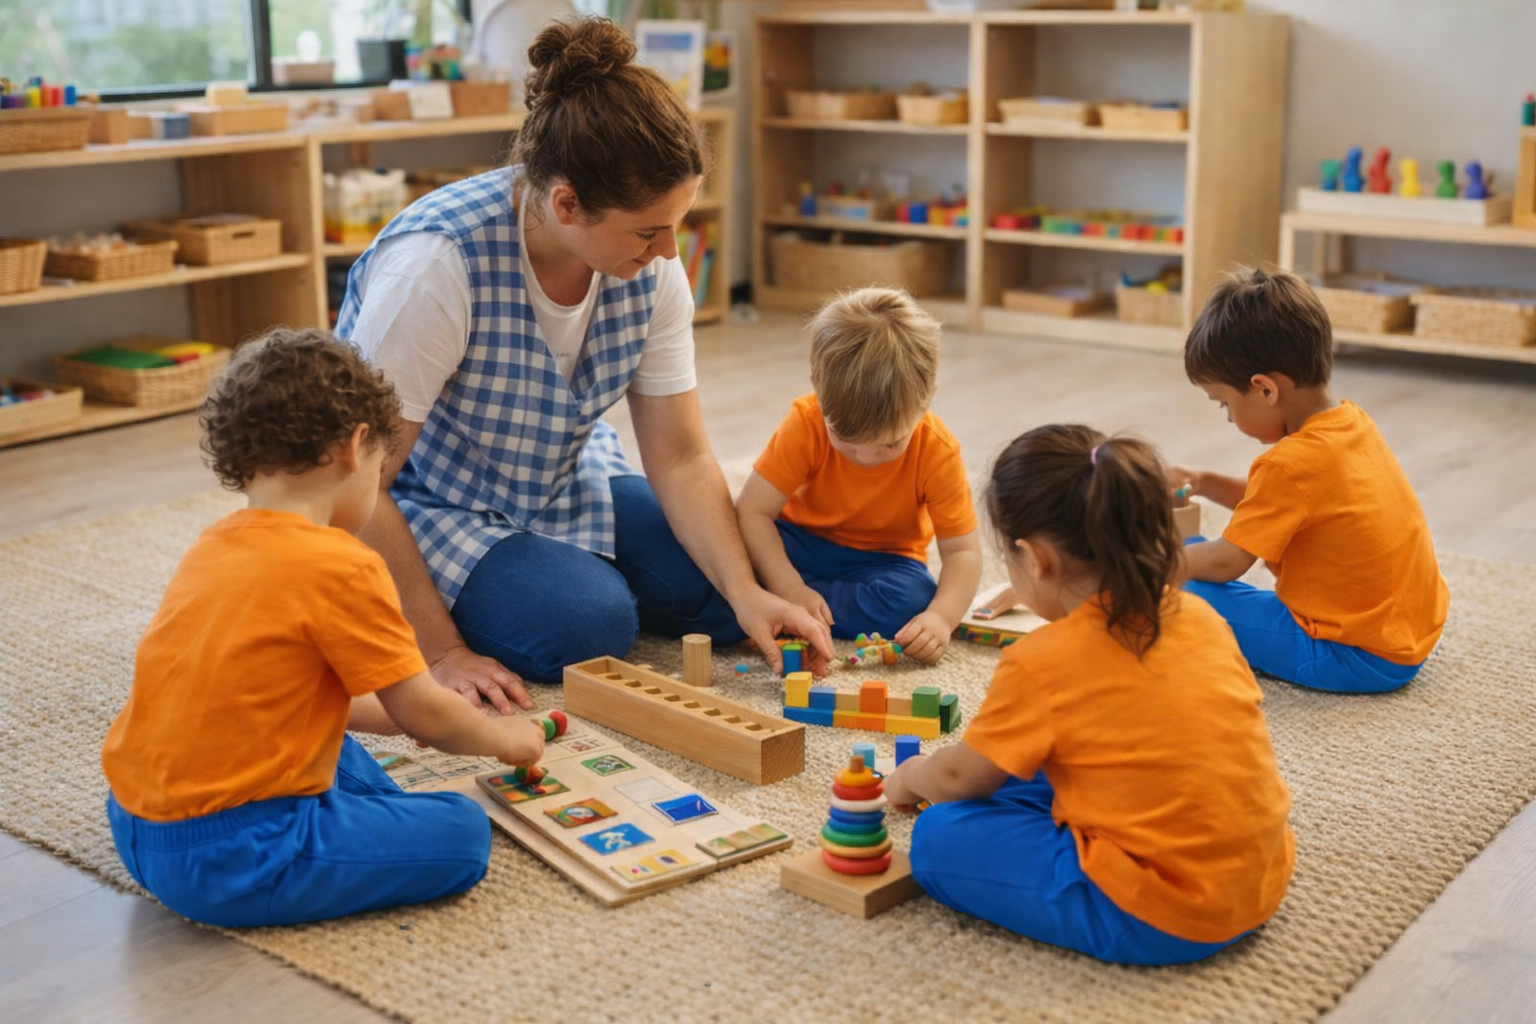
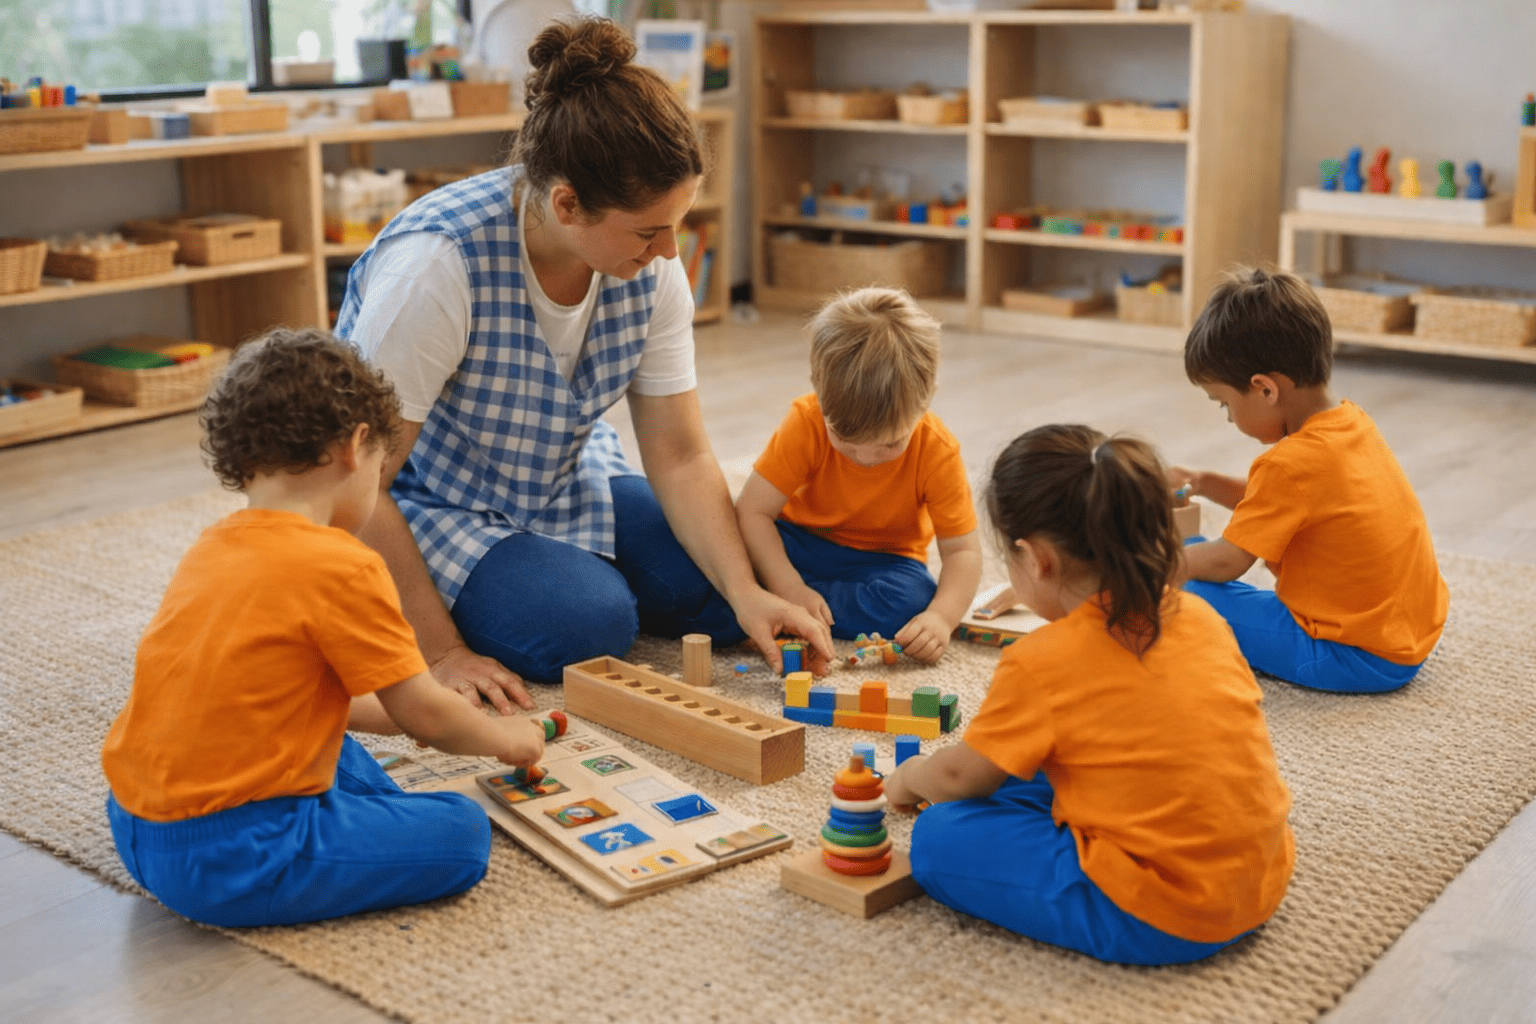
imagenes webp

diff --git a/src/pages/Home.jsx b/src/pages/Home.jsx
@@ -6,9 +6,9 @@ import Card from "../components/ui/Card";
 import styles from "./Home.module.css";
 import HeroCarousel from "../components/ui/HeroCarousel";
 import { useRevealOnScroll } from "../components/hooks/useRevealOnScroll";
-import Hero1 from "../assets/Hero1.png";
-import Hero2 from "../assets/Hero2.png";
-import Hero3 from "../assets/Hero3.png";
+import Hero1 from "../assets/Hero1.webp";
+import Hero2 from "../assets/Hero2.webp";
+import Hero3 from "../assets/Hero3.webp";
 
 export default function Home() {
     const heroSlides = [

diff --git a/src/pages/Home.module.css b/src/pages/Home.module.css
@@ -389,3 +389,9 @@
     background-color: rgba(246, 166, 90, 0.06);
 }
 
+@media (max-width: 768px) {
+    .card {
+        box-shadow: 0 4px 16px rgba(0,0,0,.08);
+        backdrop-filter: none;
+    }
+}
